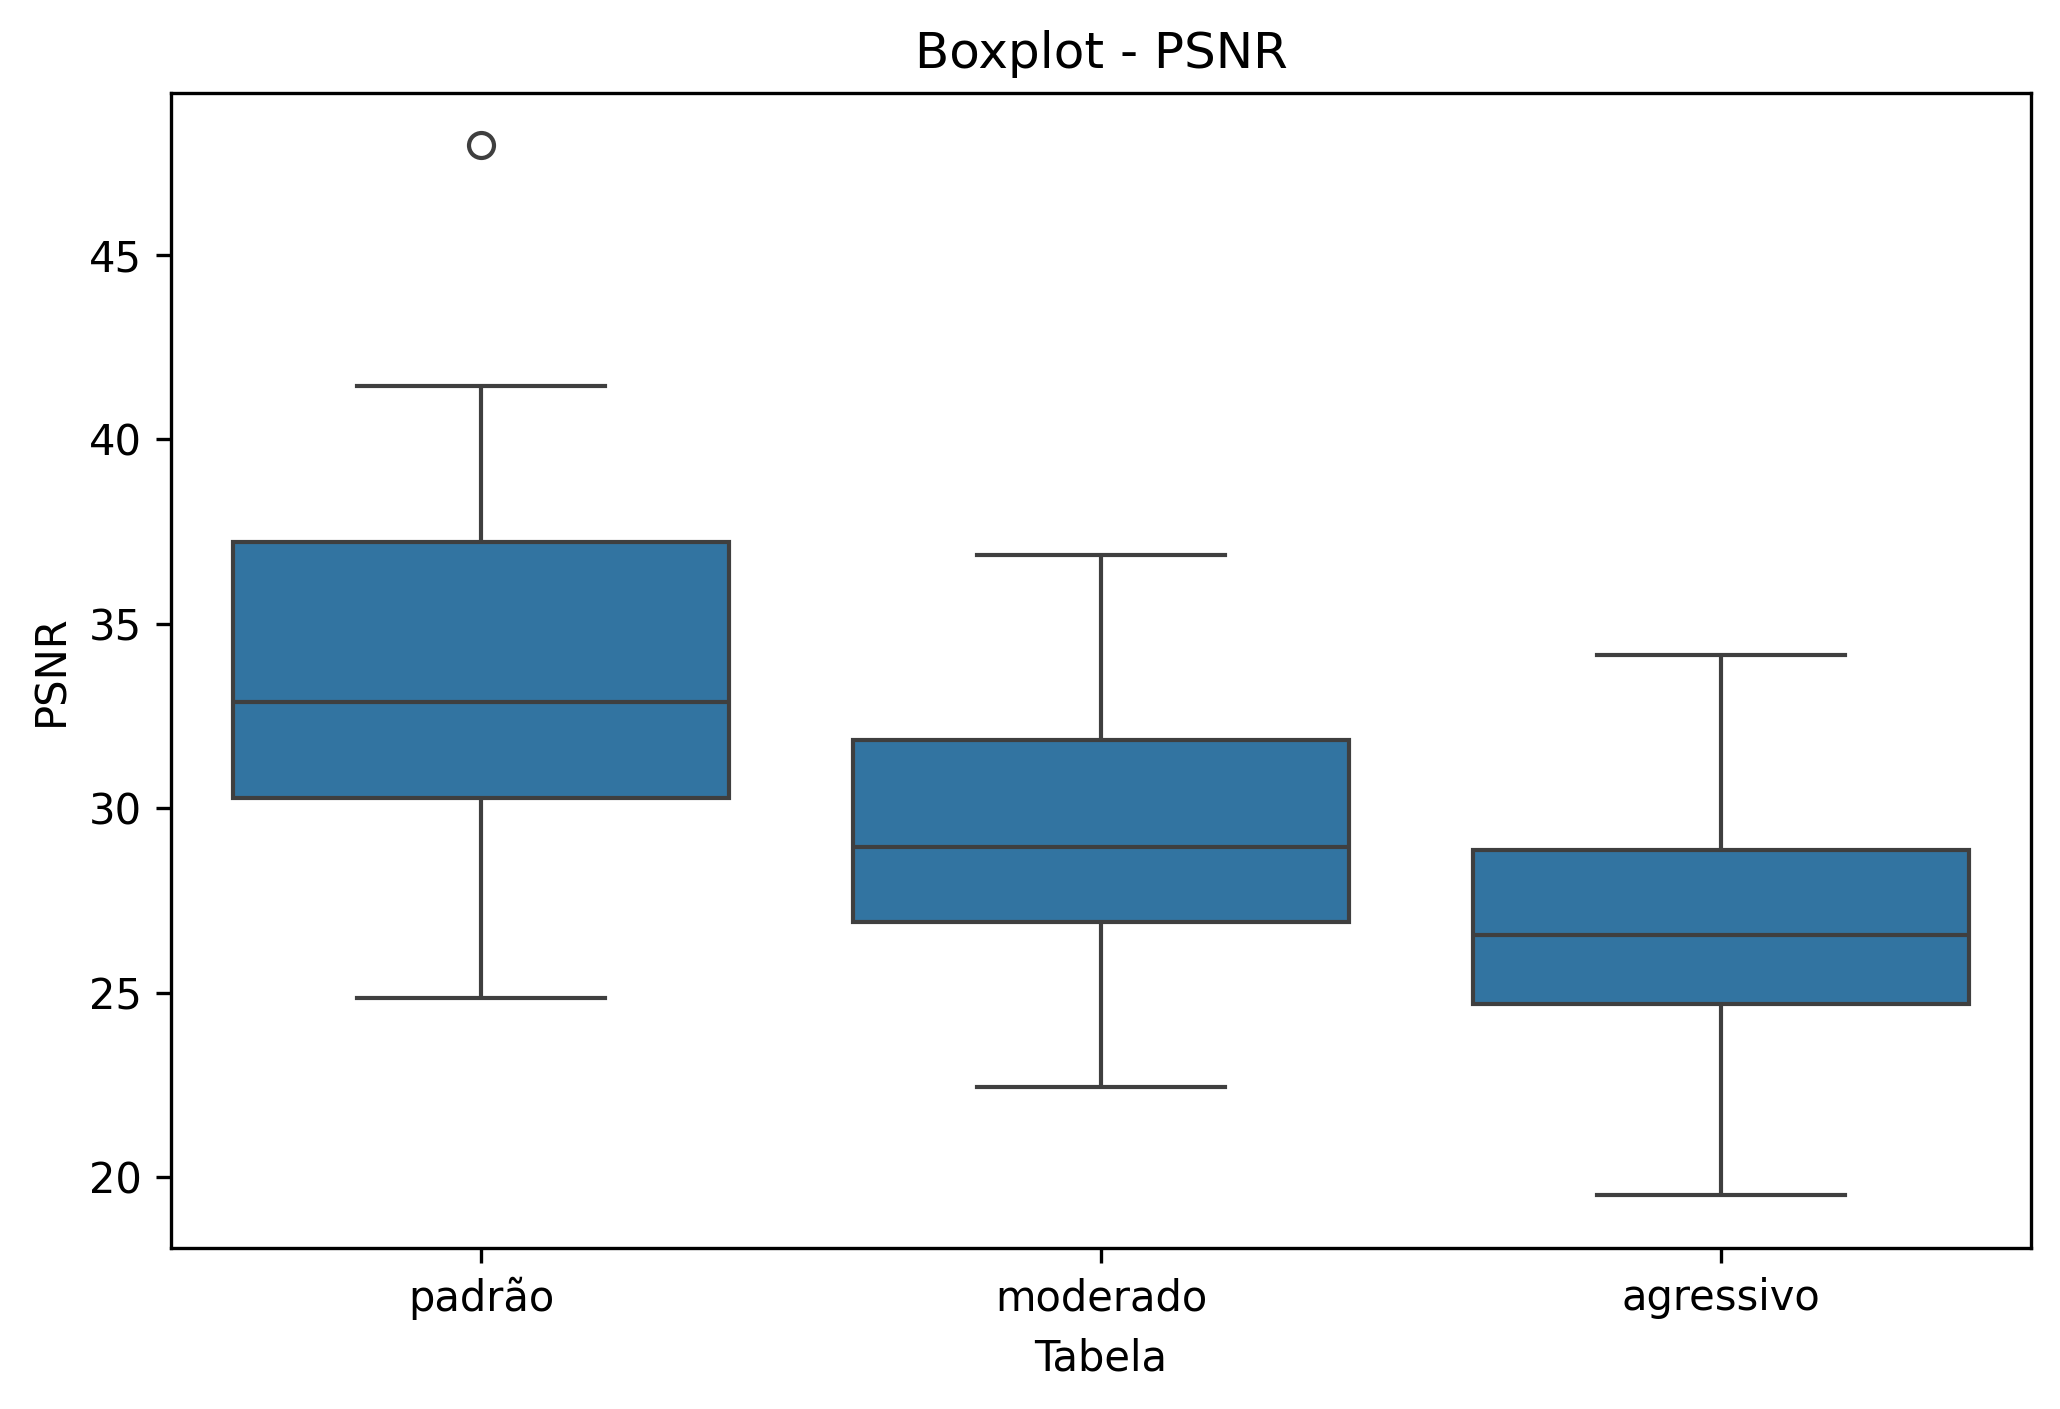
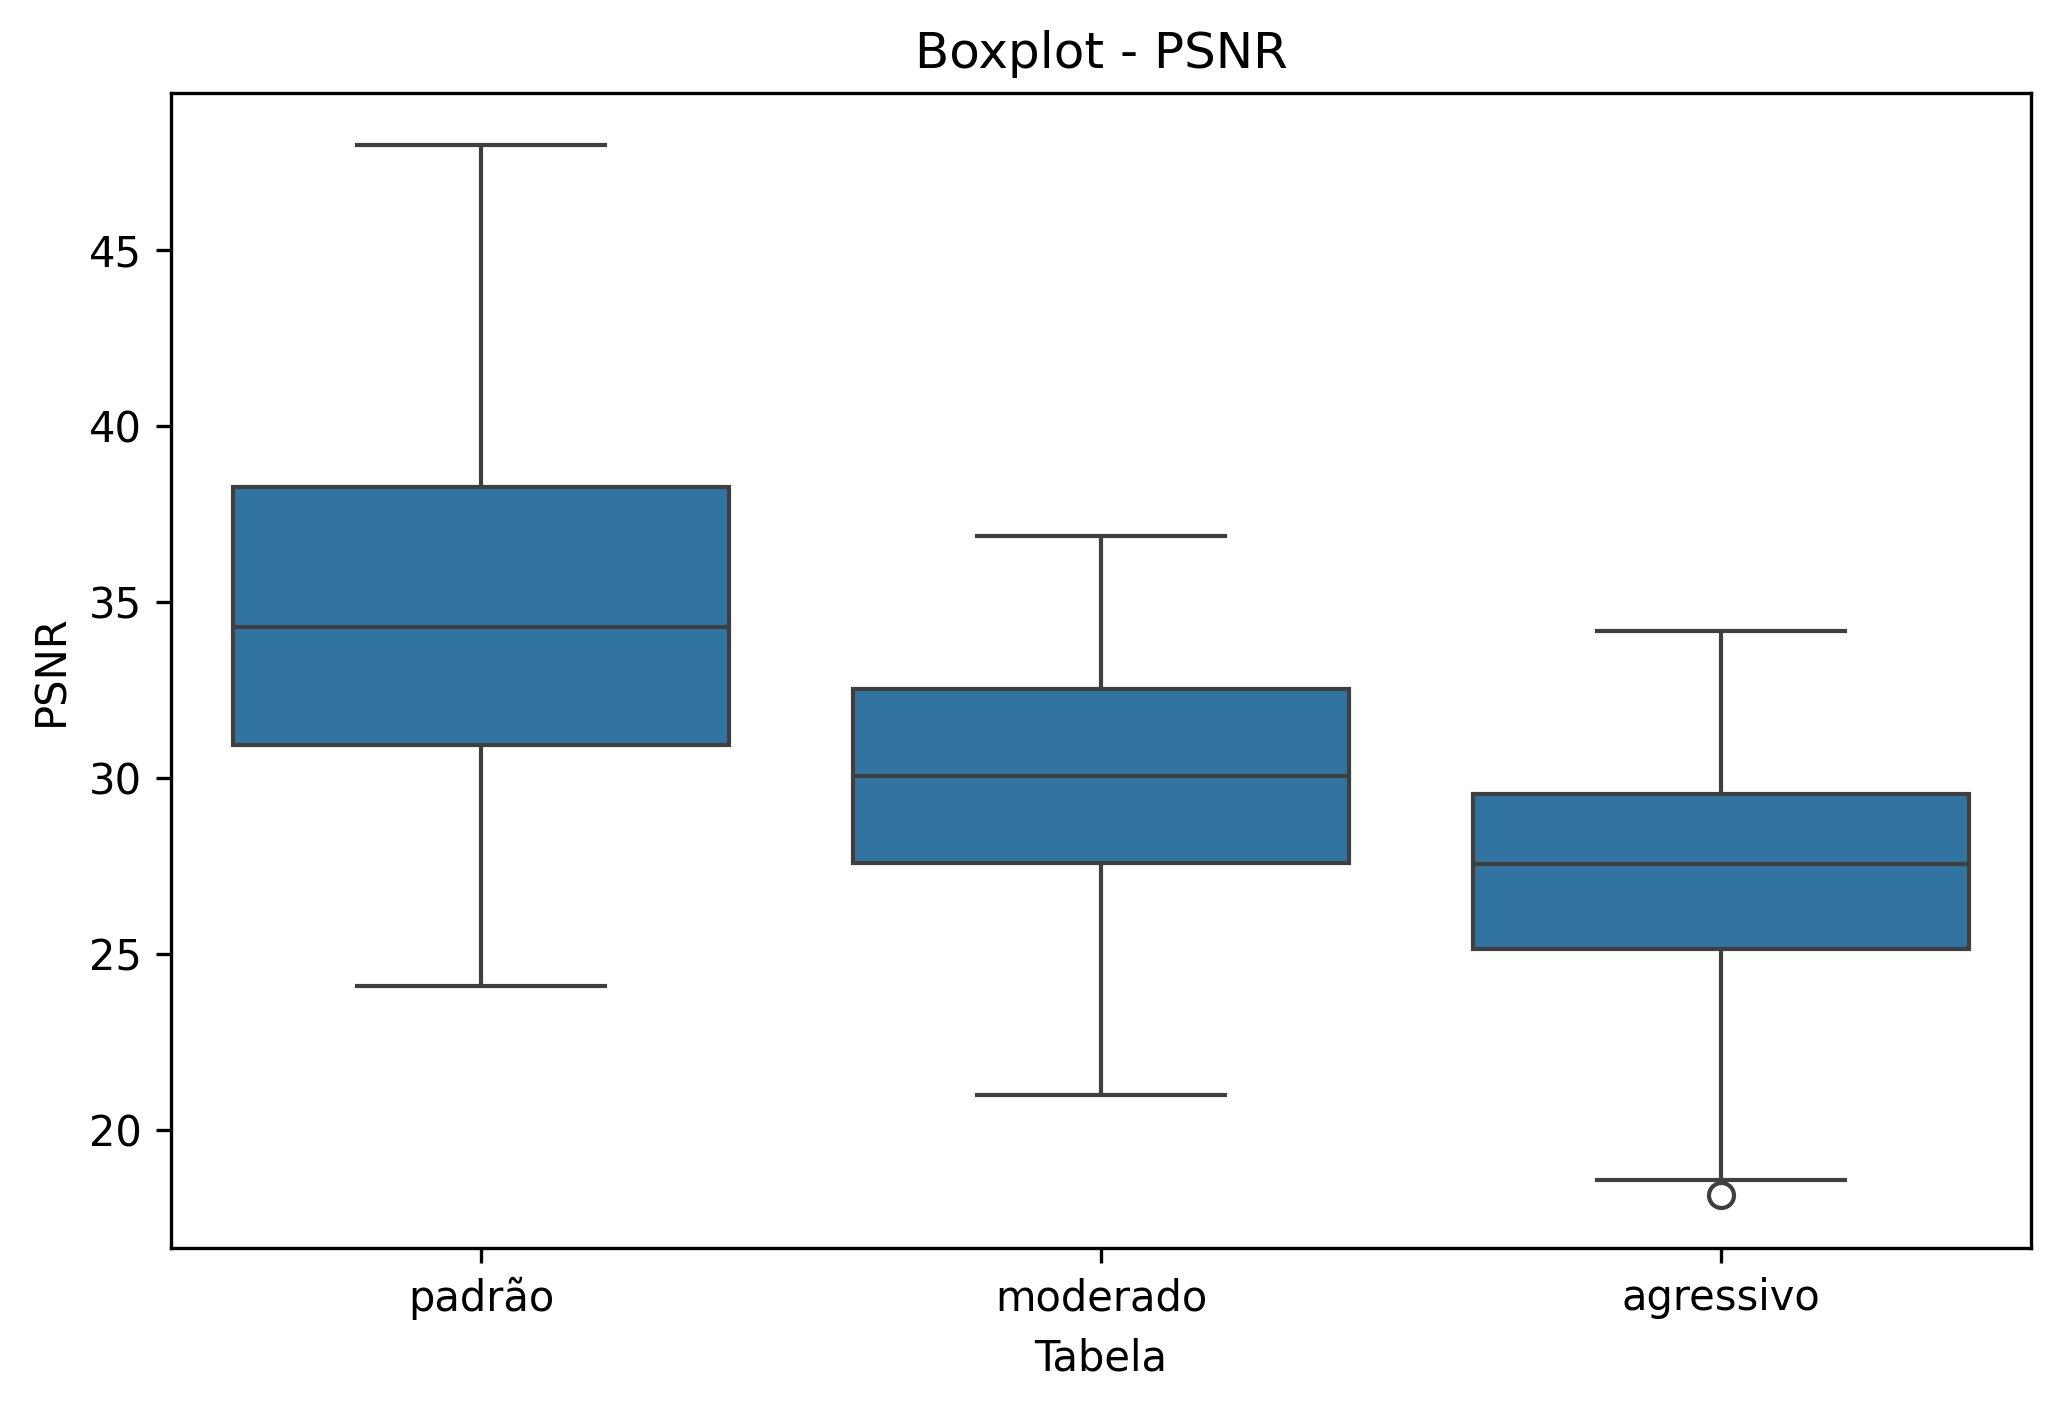
Execução com as 420 imagens para teste. Imagens dos resultados atualizadas

diff --git a/JPEG_Algorithm_Transform.py b/JPEG_Algorithm_Transform.py
@@ -14,7 +14,7 @@ from skimage.metrics import peak_signal_noise_ratio, structural_similarity
 # -----------------------------
 # --- Configurações / Pasta ---
 # -----------------------------
-pasta_img = './img_testes_rapidos'
+pasta_img = './img'
 arquivos = [os.path.join(pasta_img, f) for f in os.listdir(pasta_img)
             if f.lower().endswith(('.tiff', '.jpeg'))]
 
@@ -218,8 +218,14 @@ for arquivo in arquivos:
 
         original_uint8 = img_rgb.astype(np.uint8)
         reconstruida_uint8 = img_final.astype(np.uint8)
-        psnr_val = peak_signal_noise_ratio(original_uint8, reconstruida_uint8, data_range=255)
+        mse = np.mean((original_uint8.astype(np.float64) - reconstruida_uint8.astype(np.float64)) ** 2)
+        if mse == 0:
+            psnr_val = float('inf')
+        else:
+            psnr_val = 10 * np.log10((255 ** 2) / mse)
+
         ssim_val = structural_similarity(original_uint8, reconstruida_uint8, channel_axis=2, data_range=255)
+
 
         perc_zeros = (zY + zCb + zCr) / (cY + cCb + cCr) * 100
 

diff --git a/JPEG_Algorithm_Quantization.py b/JPEG_Algorithm_Quantization.py
@@ -12,7 +12,7 @@ import seaborn as sns
 # ------------------------
 # --- Pasta de imagens ---
 # ------------------------
-pasta_img = './img_testes_rapidos'
+pasta_img = './img'
 arquivos = [os.path.join(pasta_img, f) for f in os.listdir(pasta_img) 
             if f.lower().endswith(('.tiff', '.jpeg'))]
 
